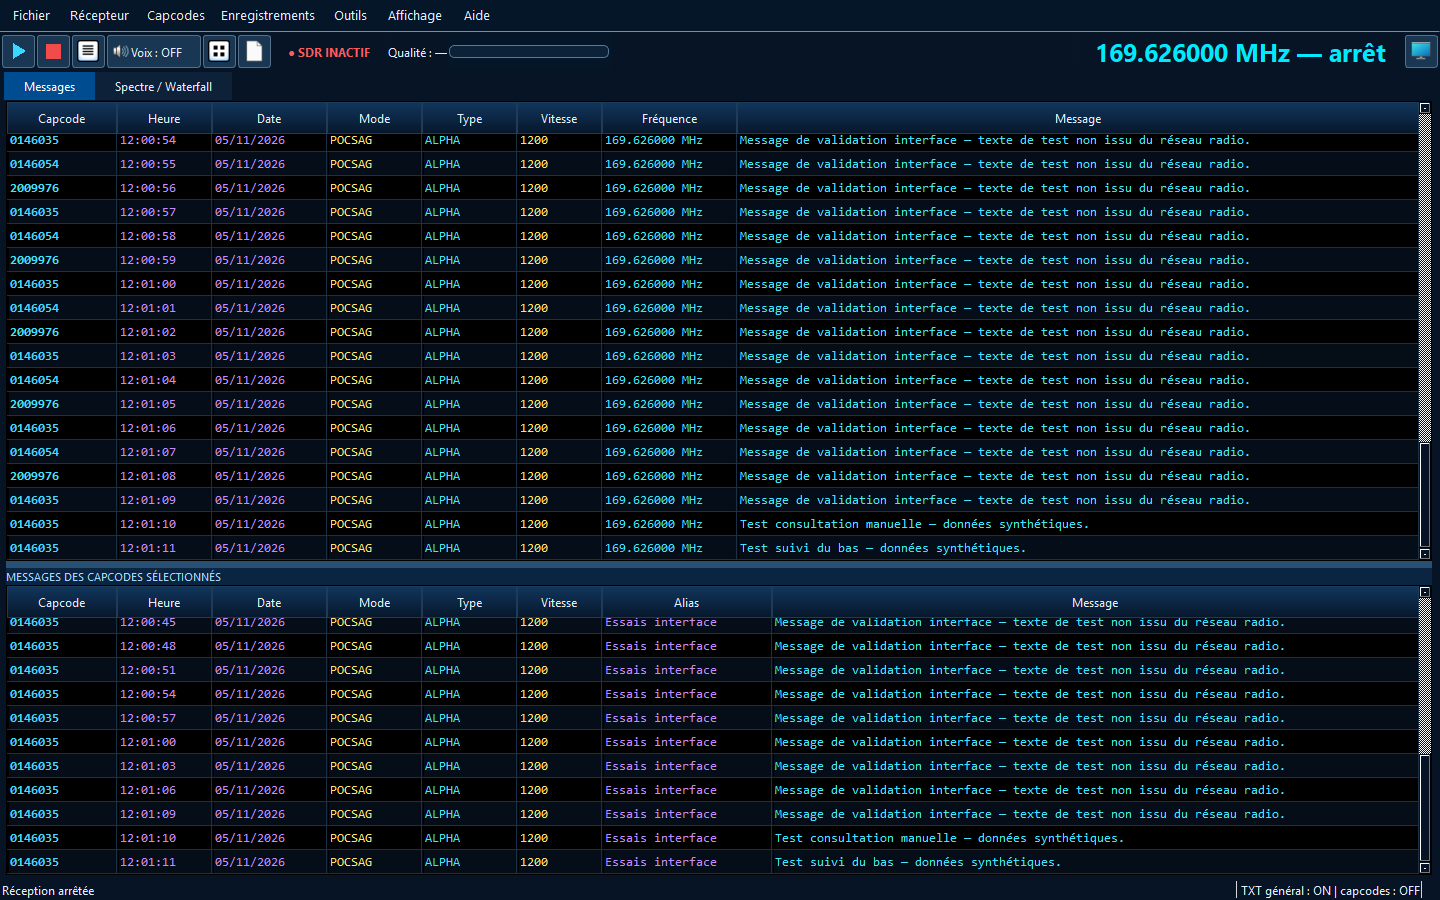
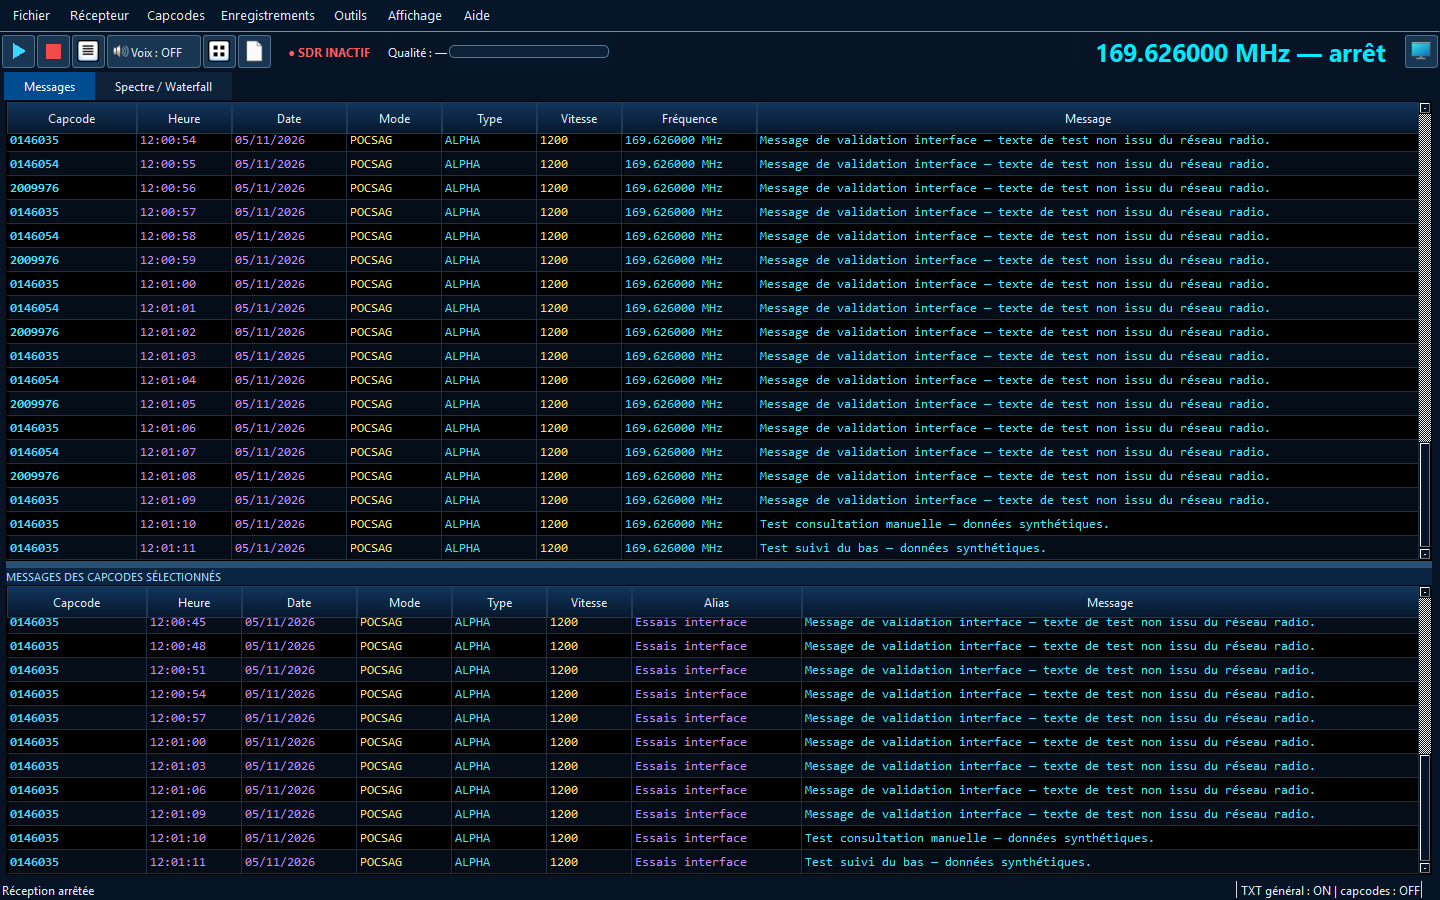
Qualify 0.1.8 on live RTL, French speech, portable ZIP and final installer

diff --git a/tests/capcode_regression_tests.cpp b/tests/capcode_regression_tests.cpp
@@ -20,6 +20,7 @@ struct IntegrationChecks {
   require(value(w,"alias")=="Ambulance Z3"&&value(w,"voice_enabled")=="1");require(!QFileInfo::exists(dir+"/nouveau/dossier/interventions.txt"));
   edit(w,[&](auto d,auto t,auto save){t->item(0,16)->setCheckState(Qt::Checked);save->click();require(!d->isVisible());});require(value(w,"pager_enabled")=="1");
   edit(w,[&](auto d,auto t,auto save){t->item(0,1)->setText("Alias modifié");t->item(0,4)->setCheckState(Qt::Unchecked);t->item(0,14)->setCheckState(Qt::Unchecked);save->click();require(!d->isVisible());});require(value(w,"alias")=="Alias modifié"&&value(w,"voice_enabled")=="0");
+  edit(w,[&](auto d,auto t,auto save){t->setCurrentCell(0,0);QTimer::singleShot(0,d,[&]{auto advanced=qobject_cast<QDialog*>(QApplication::activeModalWidget());require(advanced&&advanced!=d);advanced->findChild<QLineEdit*>()->setText("Description avancée conservée");advanced->findChild<QComboBox*>()->setCurrentText("ALPHA");advanced->findChild<QSpinBox*>()->setValue(0);advanced->findChild<QDialogButtonBox*>()->button(QDialogButtonBox::Ok)->click();});for(auto b:d->template findChildren<QPushButton*>())if(b->text()=="Paramètres avancés du capcode…"){b->click();break;}save->click();require(!d->isVisible());});require(value(w,"description")=="Description avancée conservée"&&value(w,"interpretation")=="ALPHA");
   QFile existing(dir+"/existant.txt");require(existing.open(QIODevice::WriteOnly));existing.write("CONSERVER\r\n");existing.close();
   for(QString path:{dir+"/existant.txt",dir+"/nouveau-fichier.txt"})edit(w,[&](auto d,auto t,auto save){t->item(0,7)->setText("");t->item(0,5)->setText(path);save->click();require(!d->isVisible());});
   require(existing.open(QIODevice::ReadOnly)&&existing.readAll()=="CONSERVER\r\n");existing.close();require(!QFileInfo::exists(dir+"/nouveau-fichier.txt"));

diff --git a/tests/integration_tests.cpp b/tests/integration_tests.cpp
@@ -32,9 +32,9 @@ struct IntegrationChecks {
    QMouseEvent press(QEvent::MouseButtonPress,local,global,Qt::LeftButton,Qt::LeftButton,Qt::NoModifier);QApplication::sendEvent(handle,&press);
    QMouseEvent move(QEvent::MouseMove,local-QPointF(0,100),global-QPointF(0,100),Qt::NoButton,Qt::LeftButton,Qt::NoModifier);QApplication::sendEvent(handle,&move);
    QMouseEvent release(QEvent::MouseButtonRelease,local,global-QPointF(0,100),Qt::LeftButton,Qt::NoButton,Qt::NoModifier);QApplication::sendEvent(handle,&release);QApplication::processEvents();
-   auto moved=w.messageSplit_->sizes();require(moved[0]<sizes[0]-50&&moved[1]>sizes[1]+50);savedRatio=double(moved[0])/(moved[0]+moved[1]);w.storePreferences();
+   auto moved=w.messageSplit_->sizes();require(moved[0]<sizes[0]-50&&moved[1]>sizes[1]+50);savedRatio=double(moved[0])/(moved[0]+moved[1]);w.allView_->setColumnWidth(0,130);w.savedView_->setColumnWidth(0,140);w.storePreferences();
   }{
-   Window w(dir.path());w.show();QApplication::processEvents();auto sizes=w.messageSplit_->sizes();require(std::abs(double(sizes[0])/(sizes[0]+sizes[1])-savedRatio)<.02);
+   Window w(dir.path());w.show();QApplication::processEvents();require(w.allView_->columnWidth(0)==130&&w.savedView_->columnWidth(0)==140);auto sizes=w.messageSplit_->sizes();require(std::abs(double(sizes[0])/(sizes[0]+sizes[1])-savedRatio)<.02);
    w.messageSplit_->setSizes({600,400});QApplication::processEvents();
    w.sql("INSERT INTO capcodes(ric,alias,active,show_bottom) VALUES(146035,'Essais interface',1,1),(146054,'Inactif',0,1)");
    for(int i=0;i<70;++i)w.received({i%3==0?146035u:i%3==1?146054u:2009976u,0,1200,"ALPHA","Message de validation interface — texte de test non issu du réseau radio.",0},169626000,"test",QDateTime(QDate(2026,11,5),QTime(12,0),QTimeZone("Europe/Brussels")).addSecs(i));

diff --git a/docs/QUALIFICATION-0.1.8.md b/docs/QUALIFICATION-0.1.8.md
@@ -14,7 +14,7 @@ Base : version 0.1.7, commit 8c03e09bf57af53fb0995e523f4168c72eca6c24. Aucun cha
 
 ## Tests automatisés
 
-Les huit suites CTest passent en 21,54 s : décodage, intégration, références indépendantes, file vocale, reconnexion injectée, sauvegarde des capcodes, stockage SQLite, reproduction du verrouillage historique 517.
+Les huit suites CTest passent en 26,27 s : décodage, intégration, références indépendantes, file vocale, reconnexion injectée, sauvegarde des capcodes, stockage SQLite, reproduction du verrouillage historique 517.
 
 Le test des interrupteurs envoie un événement de clic au délégué Voix, sauvegarde puis vérifie SQLite et la restauration. Les tests de réception avec backend vocal contrôlé vérifient l’alias avant le texte, l’absence de superposition et les ON/OFF indépendants. Les tests de stockage vérifient douze messages pendant un verrou, reprise et redémarrage sans doublon, erreurs de fichiers indépendantes, quatre combinaisons ON/OFF, minuit Bruxelles, format TXT exact, anciens fichiers conservés et historique de 100 001 lignes avec cache limité à 4 096 lignes. Cette limite concerne le cache uniquement.
 
@@ -28,7 +28,11 @@ La chaîne complète sauvegarde un capcode avec Voix ON, active l’interrupteur
 
 ## Essais matériels
 
-Essai prolongé RTL-SDR à 169,626 MHz en cours de qualification. Les résultats agrégés seront consignés ici avant publication.
+Essai direct sur le RTL OEM R828D à 169,626 MHz, 240 kéch/s, gain demandé 42 dB : TXT OFF 60 s (29 textes), général seul 60 s (33), sélectionnés seul 60 s (36), les deux 1 200 s (502). Total : **600 messages SQLite et 600 lignes dans chacun des deux modèles**. Le banc inscrit automatiquement les capcodes reçus uniquement dans sa base temporaire pour exercer le panneau inférieur et le fichier sélectionné ; l’application ne fait pas cette inscription automatique. Les tests logiciels vérifient séparément l’exclusion des capcodes absents/inactifs et l’indépendance En bas/Journal TXT.
+
+Fichier général : **535 lignes**, permanent : **538 lignes**, exactement les nombres attendus. Comparaison complète octet par octet avec l’outbox : identique. Dix verrous SQLite de six secondes, déclenchés sur des arrivées réelles : **283 reprises**, aucune attente IQ périmée observée, zéro message en spool et zéro TXT en attente à la fin. 661 962 752 octets IQ traités. Le voyant redevient inactif après arrêt. Rapport : `qualification-018/hardware-soak.json`.
+
+Le pilote affiche au démarrage « PLL not locked! », puis les IQ et textes circulent normalement pendant l’essai ; aucune portée de qualification supplémentaire n’est déduite de cet avertissement. Les 20 032 mots mesurés acceptés ne constituent pas une preuve de capture de toutes les transmissions radio. Aucun message ou capcode réel n’est publié dans les preuves.
 
 ## Limites explicites
 
@@ -37,3 +41,29 @@ Windows 11 Pro 26H2, Intel i7-8550U, Qt 6.8.3 / MinGW 13.1 x64 disponibles sur c
 Le pourcentage est un taux BCH/parité de mots reçus, pas un indice composite calibré synchronisation/RF. RSSI/SNR et synchronisation stable de la maquette ne sont pas affichés faute de qualification de ces mesures. Le modèle Qt expose des indices int (limite structurelle de 2 147 483 647 lignes simultanément adressables par un modèle) ; SQLite conserve les identifiants 64 bits, sans purge ni plafond configuré. La qualification d’une navigation au-delà de cette plage reste à réaliser. Les alertes espace faible sont préventives et ne garantissent pas la persistance si le disque devient plein entre deux contrôles.
 
 PrivateRadio : préférences indépendantes sauvegardées, aucun transfert réseau. La qualification matérielle des familles SDR autres que RTL-SDR reste inchangée.
+
+## Compilation et Actions
+
+Compilation locale Windows x64, Qt 6.8.3 / MinGW 13.1, mêmes bibliothèques desktop_window et desktop_services pour l’application et les tests. Le workflow mis à jour a été déclenché : [run 41997547900](https://github.com/krauschris95-alt/pocsag-sdr-pro/actions/runs/41997547900). Il n’a pas démarré : « The job was not started because an Actions budget is preventing further use. » Aucun artefact de cette version n’a été compilé par GitHub Actions. Aucun changement de facturation effectué. Le workflow reste disponible pour une exécution lorsque le budget sera rétabli.
+
+## Référence indépendante réexécutée
+
+Comparaison avec multimon-ng, discriminateur et rééchantillonnage externes : un texte exact à chacun des débits 512, 1200 et 2400 sur ses enregistrements de référence. La capture RF privée déjà acquise pour 0.1.6 a été relue : 3 textes sur 3 strictement identiques, aucun manquant ou supplémentaire dans cet échantillon. Cette relecture est distincte de l’essai RF direct 0.1.8 et ne constitue pas une nouvelle capture. Résultats agrégés uniquement dans `qualification-018/independent-reference.json`.
+
+## Installation préliminaire
+
+Installateur NSIS compilé, installation silencieuse dans un dossier neuf du workspace, démarrage de l’application avec PATH limité aux dossiers système Windows, désinstallation : codes 0. Fichier utilisateur synthétique préservé, exécutable retiré. Aucun enregistrement d’installation utilisateur préexistant n’a été écrasé. Le binaire et le script d’installation restent identiques dans l’assemblage final ; seuls les documents de qualification sont complétés.
+
+La persistance des largeurs des deux tableaux après réouverture et la modification/sauvegarde via le dialogue avancé sont également testées.
+
+## Save et voix pendant la réception directe
+
+Essai RTL supplémentaire de 60 secondes : Save accepté pendant que le thread SDR continuait ; lecture SAPI d’un texte synthétique terminée, 17 textes radio reçus et TXT vérifié, voyant inactif après arrêt. `qualification-018/save-speech-live.log`. La clé est libérée par les bancs après les tests. Aucun programme utilisateur n’a été arrêté de force.
+
+L’application et le décodeur n’ont pas été modifiés pendant les essais prolongés ; seules les preuves, la documentation et des assertions de tests supplémentaires ont été complétées. Les empreintes de l’exécutable, du binaire de test, de desktop_window et du pilote sont dans `qualification-018/build-payload.json`.
+
+## Validation des fichiers définitifs
+
+Après assemblage : ZIP extrait dans un dossier neuf, contrôle CRC et SHA256 de tous les fichiers extraits, exécutable identique au binaire qualifié, démarrage avec PATH système seul : code 0. Installateur final exact installé dans un autre dossier neuf : installation, lancement et désinstallation codes 0 ; fichier utilisateur synthétique conservé et exécutable supprimé. Preuves `portable-test.json`, `installer-final-test.json` et empreintes `release-assets.json` dans `qualification-018/`.
+
+Ces preuves finales ont été ajoutées au dépôt après l’assemblage ; le rapport inclus dans les paquets s’arrête à l’assemblage précédent. Aucun changement applicatif depuis le commit de code 538f50efba4d788b605d406c8ddee2dd92beecf6. Les archives ne contiennent ni base, ni préférences utilisateur, ni capture IQ privée, ni vidéo privée.

diff --git a/docs/RELEASE-0.1.8.md b/docs/RELEASE-0.1.8.md
@@ -5,3 +5,9 @@ Interrupteurs vocaux par capcode lisibles, commande Voix ON/OFF dans la barre su
 Deux tableaux compacts conservés, commande Derniers messages, colonnes mémorisées et présentation bleu/noir améliorée. Décodeur POCSAG et filtrage du tableau inférieur inchangés. Reprise SQLite et reçus anti-doublons conservés.
 
 Consulter docs/QUALIFICATION-0.1.8.md dans le code source et le ZIP pour les résultats détaillés et limites. Fermer complètement l’ancienne application avant de lancer celle-ci. Données et TXT existants conservés. Exécutables non signés.
+
+Compilation et tests locaux sous Windows 11. GitHub Actions bloqué avant démarrage par le budget du compte (run 41997547900), aucun artefact Actions pour cette version. Windows 10 et indice composite RF/synchronisation restent à qualifier.
+
+Validation : 8/8 suites, SAPI français réel, Save et voix pendant réception réelle. Essai RTL 23 minutes dont 20 minutes avec les deux journaux : 600 textes, 535/538 lignes TXT exactes, dix verrous injectés, aucune attente finale. Décodeur inchangé, comparaisons indépendantes exactes sur les échantillons testés. Aucun message réel dans les captures publiées.
+
+Limites : qualité affichée = contrôle BCH/parité, pas indice composite RF ; Windows 10, autres matériels et H24 non qualifiés. Navigation Qt au-delà de 2,1 milliards de lignes à qualifier, sans suppression de l’historique SQLite.

diff --git a/README.md b/README.md
@@ -97,7 +97,7 @@ windeployqt --release --no-translations dist/POCSAG-SDR-Pro/POCSAG-SDR-Pro.exe
 python -m pip install backports.zstd
 python scripts/package_hackrf.py dist/POCSAG-SDR-Pro hackrf-cache
 python scripts/build_sdr_modules.py
-python scripts/build_installer.py build-sdr-deps/nsis-source/nsis-3.12/makensis.exe 0.1.7
+python scripts/build_installer.py build-sdr-deps/nsis-source/nsis-3.12/makensis.exe 0.1.8
 ```
 
-Lire [la qualification 0.1.7](docs/QUALIFICATION-0.1.7.md), [les rapports historiques](docs/VALIDATION.md) et [les licences tierces](docs/THIRD_PARTY.md). Distinguer tests automatiques, références indépendantes, captures privées et essais RF. Windows 10, AMD, autres éditions Windows et H24 restent à qualifier ; aucune compatibilité universelle annoncée.
+Lire [la qualification 0.1.8](docs/QUALIFICATION-0.1.8.md), [les rapports historiques](docs/VALIDATION.md) et [les licences tierces](docs/THIRD_PARTY.md). Distinguer tests automatiques, références indépendantes, captures privées et essais RF. Windows 10, AMD, autres éditions Windows et H24 restent à qualifier ; aucune compatibilité universelle annoncée.
